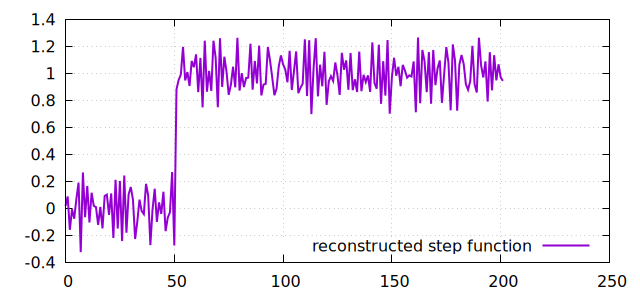
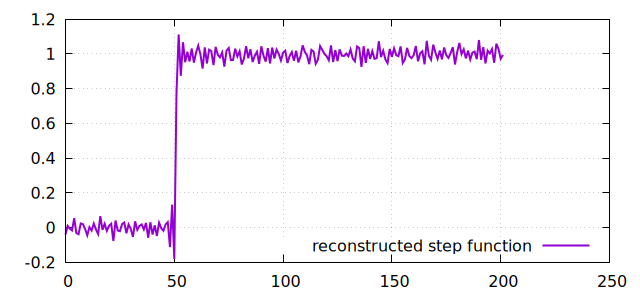
descibe filters in filtool help output

diff --git a/technical-stuff/digital-pulseshape-transformation/README.md b/technical-stuff/digital-pulseshape-transformation/README.md
@@ -18,41 +18,60 @@ With the assumtion, that the signal is a step function that was filtered by a fi
 ```bash 
 ./filtool l5 h5 h5  fit:50,1.0 < demo_signal.dat > demo_signal_fitresult.dat 
            5           5           5          50           1  (  0)
-     9.66418     6.79087     8.82544     49.7906    0.486854  (  1)     chi=91.8257
-     17.2456     15.6316     19.4611     50.2305    0.947885  (  2)     chi=56.7521
-     15.6405     13.4852     17.8218     49.6837    0.966766  (  3)     chi=38.6012
-     12.2523     7.58405     17.6141     50.0655     1.18845  (  4)     chi=25.4992
-     12.6414     8.15464     19.3168     50.3126     1.30002  (  5)     chi=16.2164
-     13.4947     7.93287     17.9151     50.2967     1.40153  (  6)     chi=16.1377
-      14.443     7.77994      17.033     50.3011     1.50399  (  7)     chi=16.1294
-     15.0552     7.75177     16.4222     50.3016     1.56869  (  8)     chi=16.124
-     15.1785     7.76171      16.296     50.3013     1.58139  (  9)     chi=16.123
-     15.2586     7.75701     16.2189     50.3015      1.5899  ( 10)     chi=16.123
-      15.251     7.75831     16.2252     50.3014     1.58905  ( 11)     chi=16.123
-     15.2587     7.75717     16.2191     50.3015      1.5899  ( 12)     chi=16.123
-     15.2618     7.75827      16.214     50.3014     1.59014  ( 13)     chi=16.123
-     15.2615     7.75823      16.214     50.3014     1.59013  ( 14)     chi=16.123
-     15.2615     7.75815     16.2142     50.3014     1.59013  ( 15)     chi=16.123
-
+     9.55795     6.65426     8.74955     49.7959    0.470427  (  1)     chi=89.6374
+     16.8767     16.0206      19.113     50.2495    0.882001  (  2)     chi=51.6394
+     14.6862     13.4389     17.0471     49.5556    0.933384  (  3)     chi=28.239
+     11.8482     10.7412     15.4924     49.9666     1.08932  (  4)     chi=7.88296
+     11.6651     10.3523     16.5656     50.2272     1.11521  (  5)     chi=4.47645
+     11.4501     8.97719      19.052     50.2684     1.12759  (  6)     chi=4.45283
+     10.7041     9.39507      19.875     50.2797     1.06303  (  7)     chi=3.87555
+     10.5547     9.57611     19.8494     50.2794     1.04777  (  8)     chi=3.85333
+     10.4523     9.66465     19.8671     50.2792      1.0375  (  9)     chi=3.85293
+     10.2472       9.839     19.9086     50.2788      1.0169  ( 10)     chi=3.85281
+     10.0456     10.0302     19.9233     50.2787     0.99684  ( 11)     chi=3.85272
+     10.1467      9.9371     19.9129     50.2788     1.00696  ( 12)     chi=3.8525
+     10.1096     9.97498     19.9115     50.2788     1.00327  ( 13)     chi=3.85247
+     10.0344     10.0483     19.9141     50.2788    0.995791  ( 14)     chi=3.85246
+     10.0209     10.0631     19.9124     50.2788    0.994454  ( 15)     chi=3.85245
+     10.0486      10.035      19.913     50.2788    0.997207  ( 16)     chi=3.85245
+     10.0347      10.049      19.913     50.2788    0.995829  ( 17)     chi=3.85245
+     10.0345     10.0492     19.9129     50.2788    0.995815  ( 18)     chi=3.85245
+     10.0345     10.0492     19.9129     50.2788    0.995814  ( 19)     chi=3.85245
 
 ```
 
 ![demo_signal_fit](demo_signal_fit.png)
 
 The fit result a good description of the signal. 
-The best estimate for the low pass time constant is `10.0432`.
-The best estimates for the high pass time constants are `20.3224` and `9.88288`.
+The best estimate for the low pass time constant is `10.0345`.
+The best estimates for the high pass time constants are `10.0492` and `19.9129`.
 
-Indeed the signal was generated from a step function tha was processed with a low pass filter with time constant `10` and two high pass filterse with time constants `10` and `20`.
+Indeed the signal was generated from a step function tha was processed with a low pass filter with time constant `10` and two high pass filterse with time constants `10` and `20` with the following command:
+
+```bash
+./filtool l10 h10 h20 gen:-50.3,1.0,150.3,0.02 > demo_signal.dat
+```
 
 # Filter inversion
 
 Knowing the filter topology and filter paramters, it is possible to apply matching inverse filters to the signal to reproduce the step function.
 
+This can be done with the command: 
+
+```bash
+./filtool L10.0345 H10.0492 H19.9129 apply < demo_signal.dat > step_reconstruction.dat
+```
+
 ![step_reconstruction](step_reconstruction.png)
 
 The signal is noisier than the input signal because inverting a low pass filter amplifies noise just as the normal low pass filter reduced noise.
 However, the reconstructed step function allows to reshape the pulse shape by applying differnt filters, such as moving average (aka box filter) or delayed differences.
+
+This can be done with the command: 
+
+```bash
+./filtool L10.0345 H10.0492 H19.9129 i10 d10 apply < demo_signal.dat > triangle.dat
+```
 
 ![triangle](triangle.png)
 
